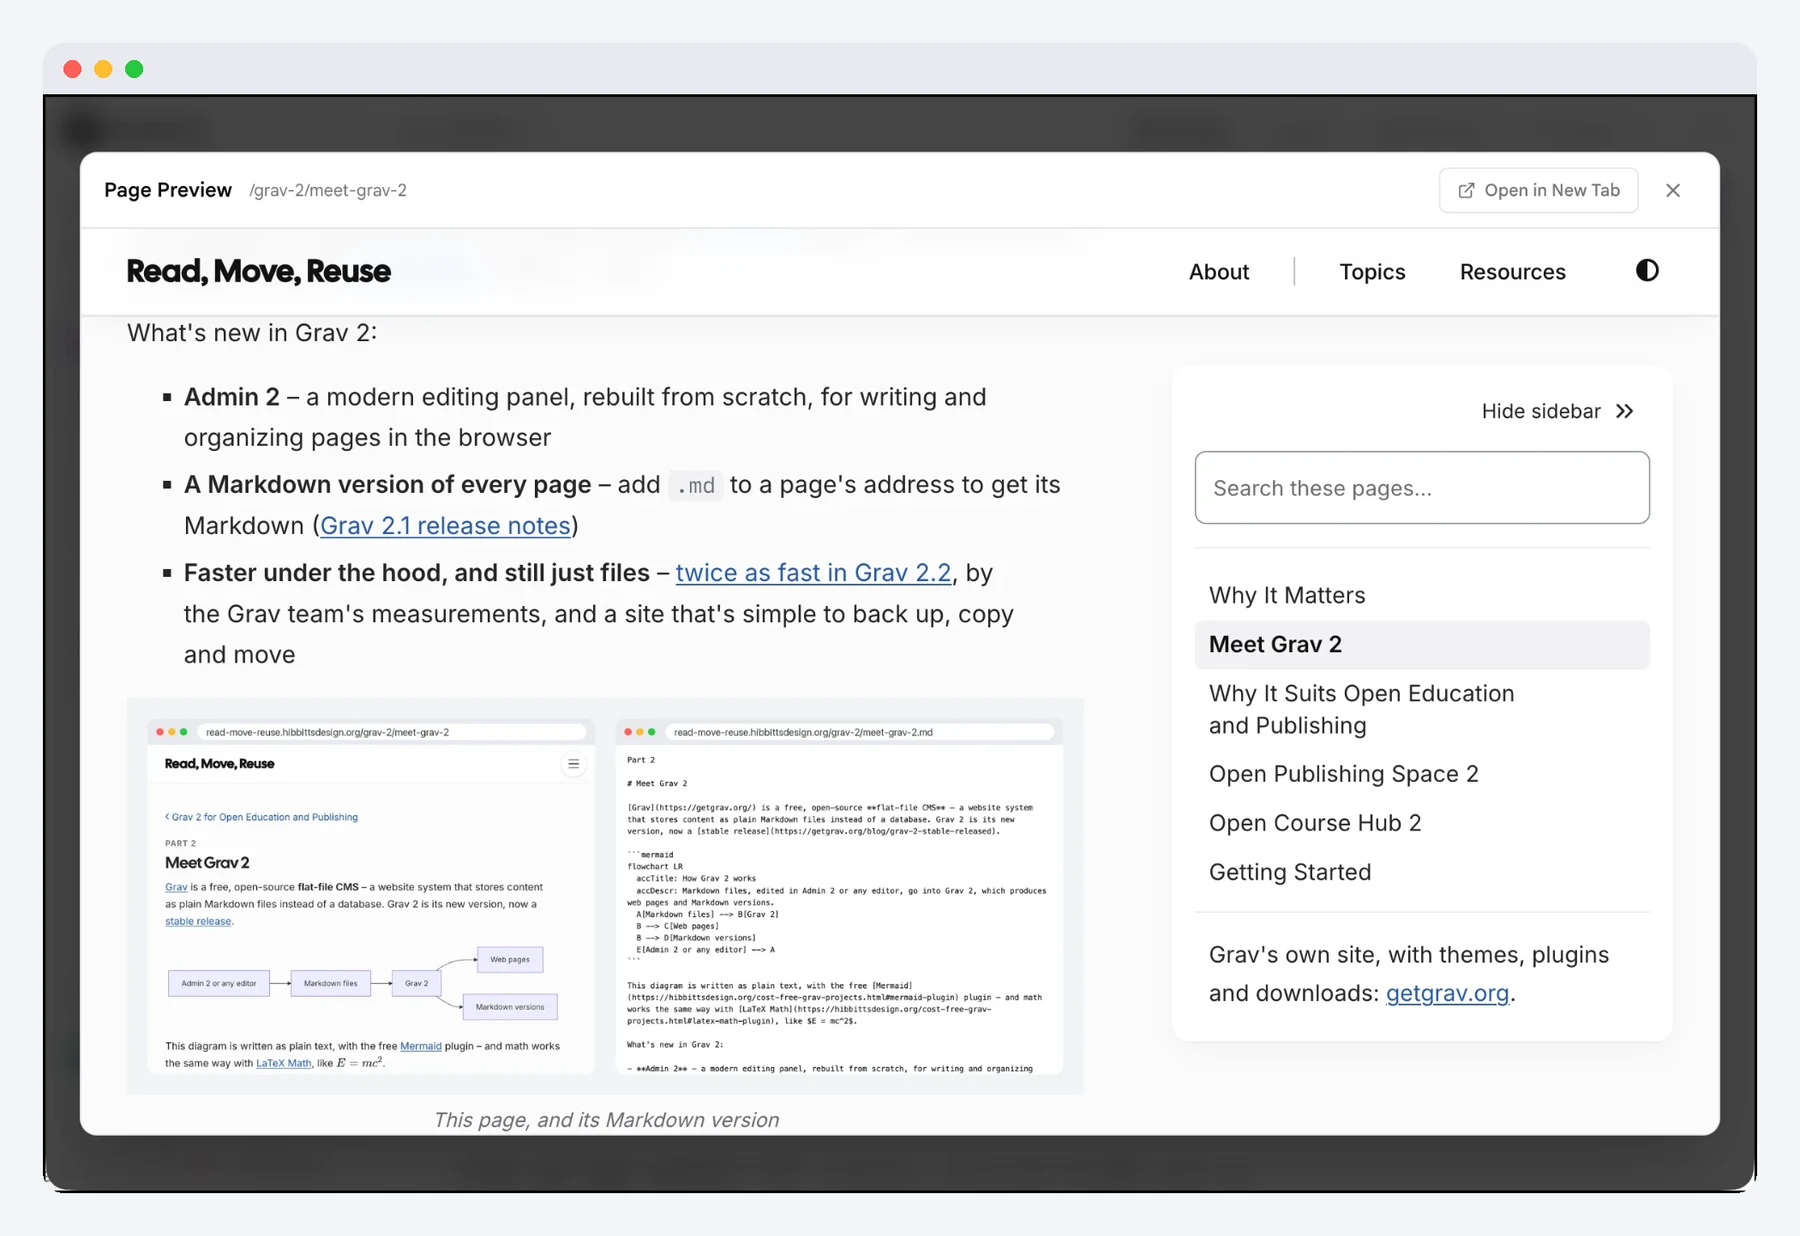
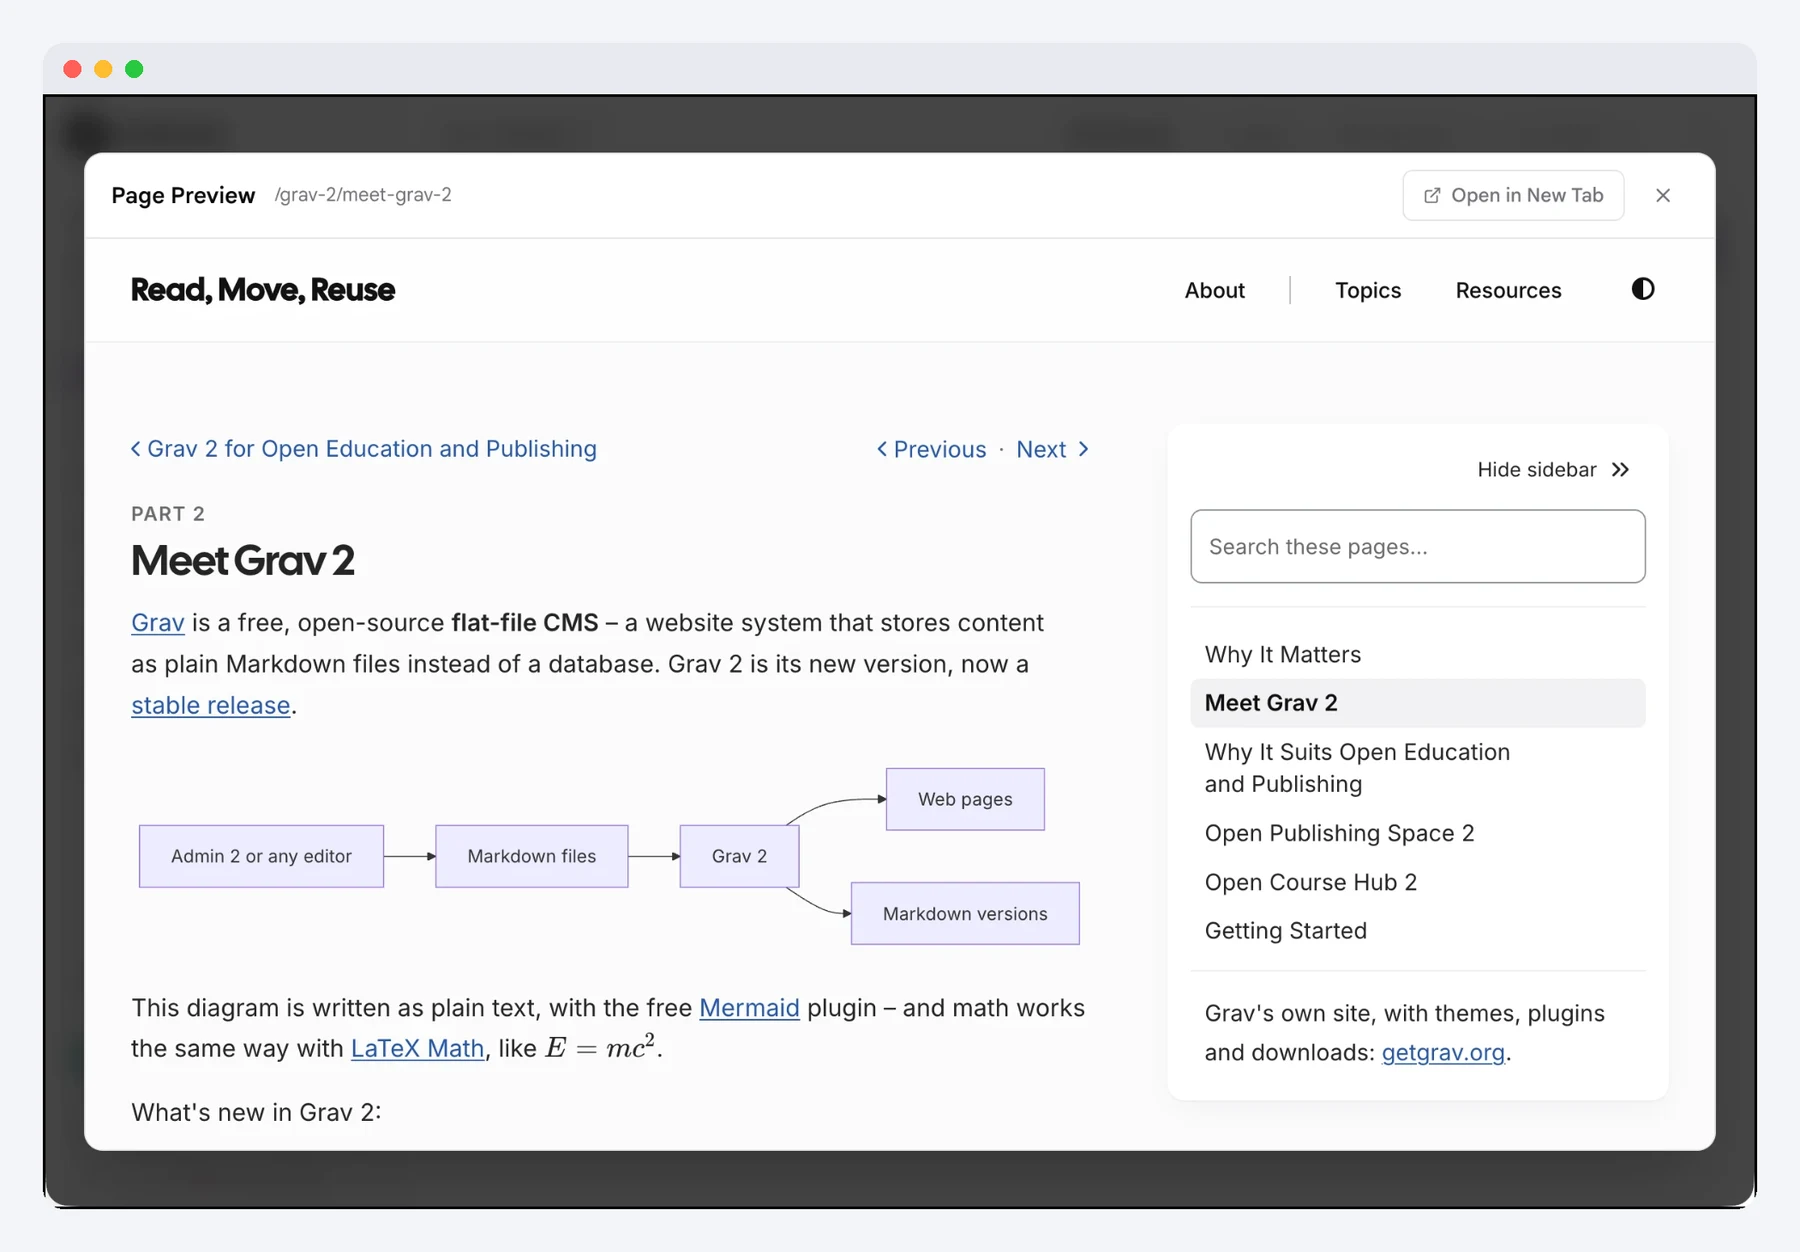
Screenshots updated.

diff --git a/pages/05.grav-2/02.meet-grav-2/section.md b/pages/05.grav-2/02.meet-grav-2/section.md
@@ -48,11 +48,11 @@ And this is Admin 2, where pages like this one are organized, written and previe
 
 *Admin 2: this guide's pages*
 
-![The Admin 2 editor with this page open, showing its What's new list as Markdown, beside a Page Info panel](grav-2-admin-2-editor.webp)
+![The Admin 2 editor with this page open, showing its opening paragraph and diagram as Markdown, beside a Page Info panel](grav-2-admin-2-editor.webp)
 
 *This page, open in the Admin 2 editor*
 
-![Admin 2's Page Preview window, showing this page's What's new list formatted as readers see it, with the guide's sidebar beside it](grav-2-admin-2-preview.webp)
+![Admin 2's Page Preview window, showing this page's title, opening paragraph and diagram as readers see them, with the guide's sidebar beside them](grav-2-admin-2-preview.webp)
 
 *The same page in Admin 2's Page Preview*
 
